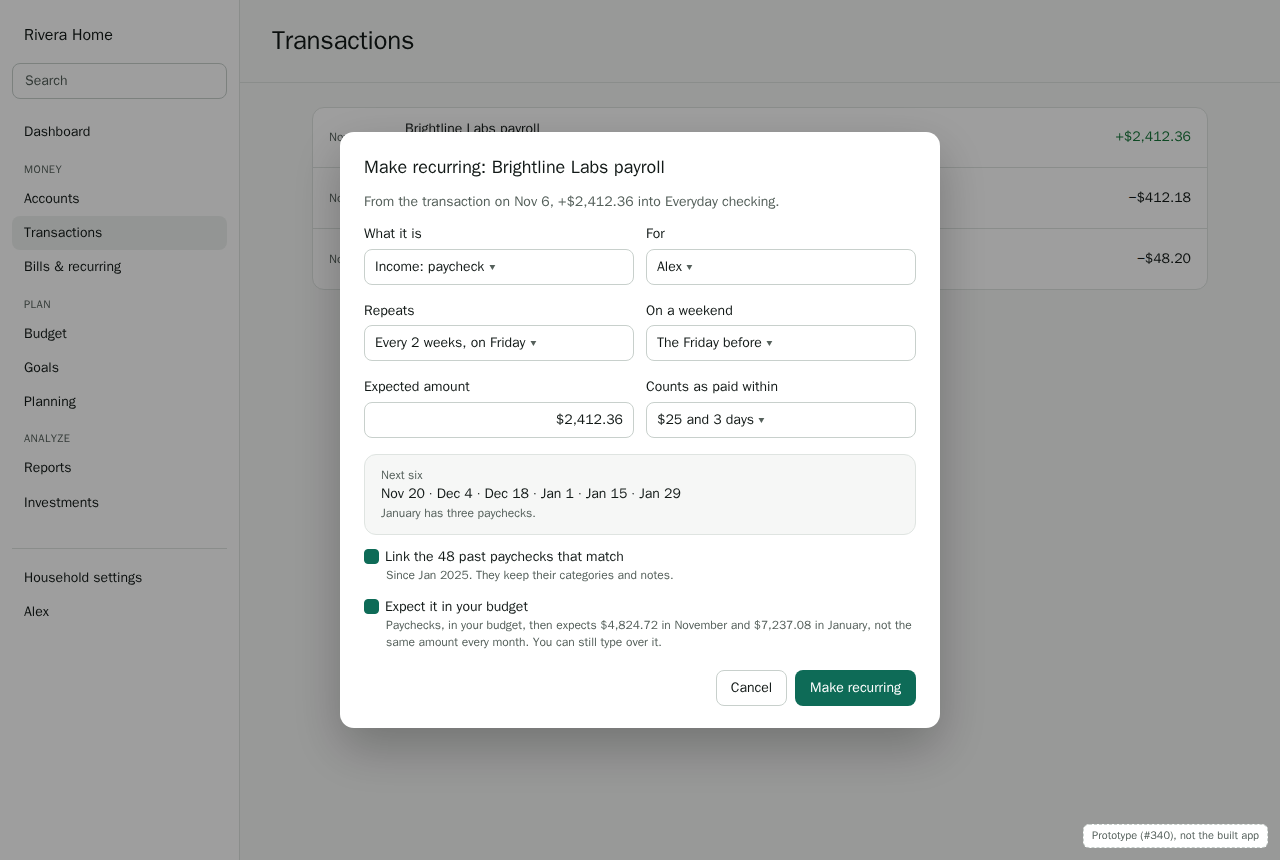
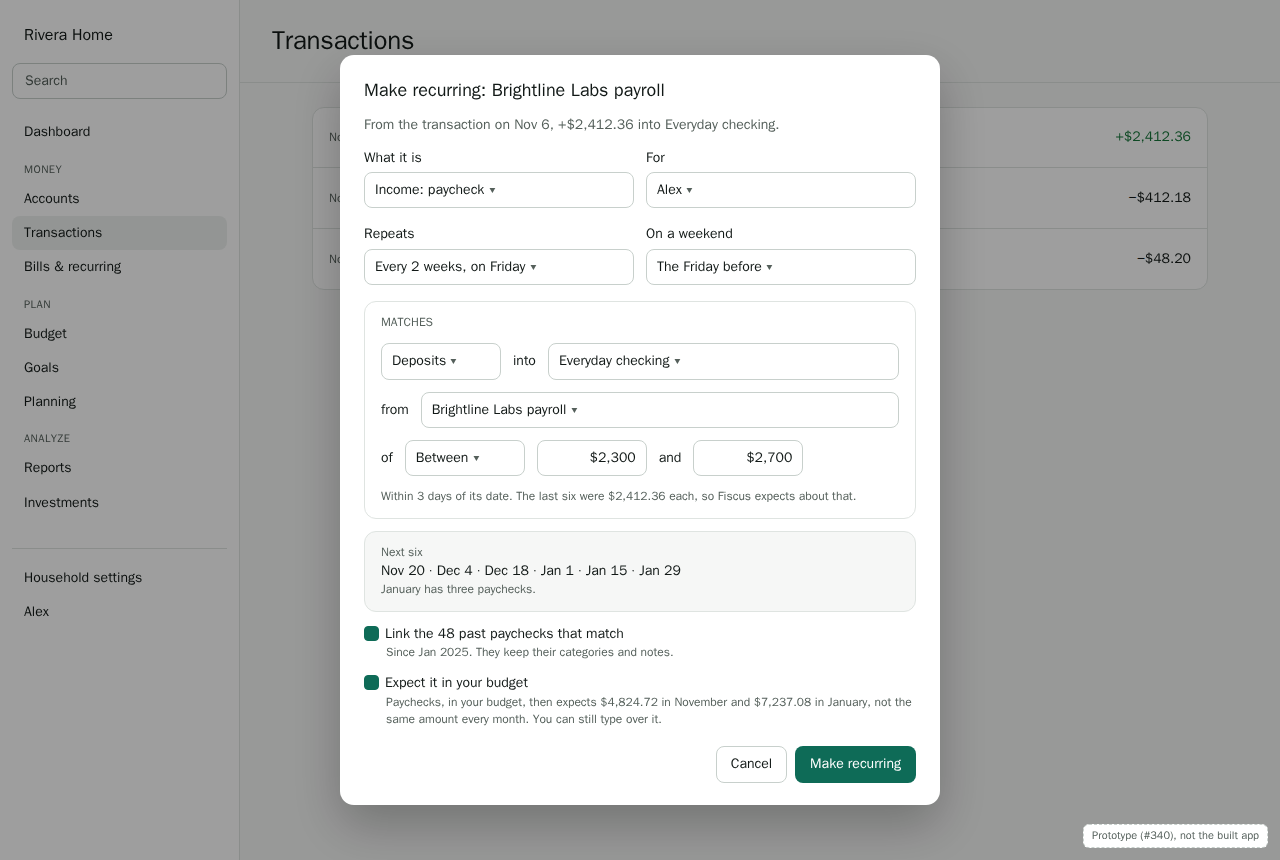
docs(bills): a series matches by conditions; what it expects is an estimate
Instead of "fixed or varies", and amounts per day for twice-a-month
paychecks: a series names what it matches, like a rule (an account, a
merchant or both, money in or out, and any amount, at least, at most,
between, or about), and separately estimates the next one from what
came in. Paychecks that differ on the 1st and the 15th, commissions, and
seasonal bills all fit without special cases.

Claude-Session: https://claude.ai/code/session_01DCnJZZ1VEBPAJXL3RVWrnd

Changed region(s): [[0.25, 0.0605, 0.75, 0.6047], [0.25, 0.6349, 0.75, 0.9674]]

diff --git a/docs/design/walkthroughs/bills/prototypes/05-make-recurring.html b/docs/design/walkthroughs/bills/prototypes/05-make-recurring.html
@@ -70,12 +70,25 @@
           <label class="field"
             ><span>On a weekend</span><span class="select">The Friday before</span></label
           >
-          <label class="field"
-            ><span>Expected amount</span><span class="input amount">$2,412.36</span></label
-          >
-          <label class="field"
-            ><span>Counts as paid within</span><span class="select">$25 and 3 days</span></label
-          >
+        </div>
+        <div class="card stack" style="padding: 12px 16px">
+          <div class="small muted" style="font-weight: 600">MATCHES</div>
+          <div class="row">
+            <span class="select" style="width: 120px">Deposits</span><span>into</span
+            ><span class="select grow">Everyday checking</span>
+          </div>
+          <div class="row">
+            <span>from</span><span class="select grow">Brightline Labs payroll</span>
+          </div>
+          <div class="row">
+            <span>of</span><span class="select" style="width: 120px">Between</span
+            ><span class="input amount" style="width: 110px">$2,300</span><span>and</span
+            ><span class="input amount" style="width: 110px">$2,700</span>
+          </div>
+          <div class="small muted">
+            Within 3 days of its date. The last six were $2,412.36 each, so Fiscus expects about
+            that.
+          </div>
         </div>
         <div class="card" style="padding: 12px 16px; background: var(--bg)">
           <div class="small muted">Next six</div>

diff --git a/docs/design/walkthroughs/bills/prototypes/03-bill-drawer.html b/docs/design/walkthroughs/bills/prototypes/03-bill-drawer.html
@@ -280,7 +280,9 @@
       </div>
       <div class="grid2" style="gap: 12px">
         <label class="field"><span>Who looks after it</span><span class="select">Sam</span></label>
-        <label class="field"><span>Amount</span><span class="select">Varies</span></label>
+        <label class="field"
+          ><span>Amount it matches</span><span class="select">Any amount</span></label
+        >
       </div>
       <div class="small muted" style="margin-top: 6px">
         Sam gets the reminders, as set in Sam’s notifications: 3 days before, and if it’s late. Alex

diff --git a/docs/design/walkthroughs/bills.md b/docs/design/walkthroughs/bills.md
@@ -41,15 +41,23 @@ paycheck, or a transfer you make every month. Each one has:
 
 | | What it is | Example |
 |---|---|---|
-| **Payee** | The merchant it's to or from, and the account it moves through | Lakeside Power, from Everyday checking |
+| **Matches** | The account, the merchant, or both, and an amount: any, at least, at most, or between | Lakeside Power, from Everyday checking, any amount |
 | **Kind** | Bill, subscription, income, or transfer | Bill |
 | **Schedule** | How often, and on which day | Monthly, around the 24th |
-| **Amount** | Fixed, or varies | Varies: $96–$148 |
+| **Expected** | An estimate of the next one, from the payments so far | About $131 |
 | **Category** | The category its payments get | Utilities |
 | **Who looks after it** | For a bill: the member who gets its reminders. For income: who it's for | Sam |
 
 Each time a payment is due is an **occurrence**: expected on a date, then **paid** (a transaction
 matched it), **late**, or **skipped**.
+
+**What it matches and what it expects are separate.** What it matches decides which payments
+count, and is plain enough to read and change: like a rule's conditions. What it expects is only
+an estimate, for totals, the budget and reminders. A paycheck that's smaller on the 15th, because
+an HSA contribution comes out of that one only, a commission that changes every month, a power
+bill that's higher in winter: each is one series with an amount condition wide enough for it
+("between $2,300 and $2,700", "at least $1,000", "any amount"), and an estimate that follows what
+actually came in.
 
 **D1. One kind of thing for bills, subscriptions, income and transfers.** They differ only in
 their wording and defaults: income says "received" instead of "paid", and has a "for" instead of
@@ -60,8 +68,7 @@ is added up separately from bills, and transfers can be hidden from the upcoming
 **D2. Schedules people actually have.**
 - Every week, or every 2 weeks, on a weekday.
 - **Twice a month**, on two days (the 1st and the 15th, or the 15th and the last day, for many
-  paychecks). **Each day has its own amount**: a paycheck on the 1st of $2,600 and one on the
-  15th of $2,450, when a deduction such as an HSA contribution comes out of one of them only.
+  paychecks).
 - Every month, on a day or on the last day; every 2, 3 or 6 months; every year.
 - Custom: every N days, weeks or months.
 
@@ -100,10 +107,11 @@ rather than deciding for you.
   - **Still coming:** the last one is no more than one and a half cycles ago. A subscription that
     stopped two years ago isn't suggested. With years of history, the alternative is pages of
     old, ended payments to dismiss.
-  - **Fixed or varies:** fixed when the amounts stay within 5% of each other, otherwise "varies",
-    shown as a range. For twice a month, each day is judged on its own. A paycheck that's always
-    smaller on the 15th is two fixed amounts, one for each day, not one that varies. A price change that sticks (Northwind Mobile, $80 to $85 since June) is
-    still fixed, at the new amount, and noted.
+  - **The amount it proposes:** when the payments stay within 5% of each other, "about" that
+    amount, matched within 5%. Otherwise "between" the lowest and highest seen, with a margin, or
+    "any amount" when they're all over the place. You can change it before confirming, as with a
+    rule. A price change that sticks (Northwind Mobile, $80 to $85 since June) moves the amount,
+    and is noted.
   - Not suggested: spending that's frequent but not steady (groceries, gas), and transfers
     between your own accounts that are already linked as transfers, unless they're steady (the
     $200 a month to Holiday fund is).
@@ -143,9 +151,10 @@ month, and a 3-paycheck month looks like a windfall, or a 2-paycheck month like 
 - An amount typed in the budget for a month still wins for that month.
 - The checkbox shows for income series when there's a budget that counts the category. It
   starts ticked.
-- Twice-a-month paychecks get two a month, every month: the budget expects the two days' amounts
-  added together ($2,600 + $2,450 = $5,050), and when one changes (a raise, a new HSA
-  contribution), the months after it follow.
+- What it expects for a month is the estimate for each paycheck due in it, added up. For a
+  paycheck that's $2,600 on the 1st and $2,450 on the 15th, the estimate comes from recent
+  paychecks, so the month adds up to about $5,050; a raise or a new HSA contribution shows up in
+  the months after it.
 
 ---
 
@@ -157,8 +166,8 @@ month, and a 3-paycheck month looks like a windfall, or a 2-paycheck month like 
 - **Totals for the month:** bills paid and to pay, income expected and received, card
   statements, and subscriptions a month.
 - **The list:** late first, then this week, then the rest of the month. Each row shows the
-  payee, its schedule and account, who looks after it, and the amount: exact, or "about" for
-  one that varies.
+  payee, its schedule and account, who looks after it, and what it expects: exact for a payment
+  that's always the same, otherwise "about".
 - **Paid this month** sits at the end, folded.
 
 **Calendar** shows the same occurrences by day. **All** lists every series, active and ended,
@@ -170,8 +179,8 @@ for editing.
 statements beside bills.
 
 **Do better.**
-- **D8. An amount that varies gets a real estimate.** "About $131" for Lakeside Power comes from
-  the same month last year and the last 3 months, not the last payment alone. A power bill in
+- **D8. The estimate is a real one.** "About $131" for Lakeside Power comes from the same month
+  last year and the last 3 months, not the last payment alone. A power bill in
   November is more like last November than like October. The drawer says how it was worked out
   (§6).
 - **D9. Card statements come from the bank, not from detection.** For cards linked through
@@ -205,15 +214,18 @@ same list. Calendar and All are a tap away.
 
 ## 5. Paid, late, and matching
 
-**D11. A payment is matched by payee, account, date and amount.** An occurrence is paid when a
-transaction comes in:
-- from the same payee, in the same direction, through the same account;
-- within its window (by default 3 days either side, or a week for a monthly bill that varies);
-- with an amount within its tolerance (by default 5%, or any amount for one that varies). For
-  twice a month, that's the amount for its own day.
+**D11. A payment is matched by conditions you can read, like a rule's.** An occurrence is paid
+when a transaction comes in:
+- through the series' account, from or to its merchant, or both, whichever it names. A
+  paycheck can be "any deposit into Everyday checking from Brightline Labs"; a series can also be
+  "any deposit of at least $1,000 into Everyday checking", for income with no steady name;
+- in the same direction (money in, or money out);
+- within its window: by default 3 days either side of its date, or a week for a monthly bill;
+- with an amount that meets its condition: any, at least, at most, between, or about (within 5%).
 
-Each transaction pays at most one occurrence. A matched transaction gets the series' category if
-it has none, and shows the series in its drawer.
+The conditions use the rule editor's pieces, so they read the same. Each transaction pays at most
+one occurrence. A matched transaction gets the series' category if it has none, and shows the
+series in its drawer.
 
 **D12. Late, and what to do about it.** An occurrence nobody's seen 2 days after its expected
 date is **late** (Cascade Water above, due November 9). A payment that turns up afterwards still
@@ -247,7 +259,7 @@ who can see it still sees it; only that person is reminded.
   reminders to send, but a late paycheck is worth knowing about (§7).
 
 **D14. Changes worth noticing.** Badges on the series, and insights (#129, #123):
-- **Price went up** ("Up $5.00 since June"), when a fixed amount moves and stays.
+- **Price went up** ("Up $5.00 since June"), when an "about" amount moves and stays.
 - **New subscription**, when a new one is found.
 - **Looks ended**, after two late occurrences.
 
@@ -334,16 +346,16 @@ card, which Alex's doesn't. A quiet week still sends a short recap, so it's clea
 | # | Decision | Shapes |
 |---|---|---|
 | D1 | One model for bills, subscriptions, income and transfers | #118 |
-| D2 | Schedules include twice a month, with an amount per day, and a weekend rule; no holiday calendar | #118 |
+| D2 | Schedules include twice a month and a weekend rule; no holiday calendar | #118 |
 | D3 | Fiscus detects from all its own history, for every account, not Plaid's recurring endpoint | #119 |
-| D4 | Found: 3+ at a steady pace, still coming; fixed within 5%, otherwise varies | #119 |
+| D4 | Found: 3+ at a steady pace, still coming; it proposes an amount condition to edit | #119 |
 | D5 | Suggestions are reviewed on Bills & recurring; Not recurring is remembered | #119 |
 | D6 | Any transaction can start a series, and its past payments are linked | #118, #119 |
 | D7 | A paycheck can set the budget's expected income, month by month | #118, budgets |
-| D8 | Variable amounts are estimated from last year's month and the last 3 | #120 |
+| D8 | What's expected is estimated from last year's month and the last 3, apart from what matches | #120 |
 | D9 | Card statements come from the bank, and aren't added to bills | #122, #86 |
 | D10 | Series follow account visibility; Ours and Mine filter by who it's for | #118, ADR 0006 |
-| D11 | Matching by payee, account, a date window and an amount tolerance | #120 |
+| D11 | Matching by conditions like a rule's: account and/or merchant, direction, a date window, an amount condition | #120, rules |
 | D12 | Late 2 days after its date; mark paid, skip, or ended; two lates ask if it's ended | #120 |
 | D13 | One person looks after each bill and gets its reminders | #121, ADR 0006 §6 |
 | D14 | Price rises, new subscriptions and ended series are noticed | #123, #129 |
@@ -357,7 +369,7 @@ card, which Alex's doesn't. A quiet week still sends a short recap, so it's clea
 
 ## Open questions
 
-- **Detection thresholds (D4).** 3 payments, 5% for "fixed", one and a half cycles for "still
+- **Detection thresholds (D4).** 3 payments, 5% for "about", one and a half cycles for "still
   coming" are starting points. They should be checked against real histories, including one
   with nine years of Monarch imports, before #119 is done.
 - **Reviewer assignment and review reminders (#45).** "Transactions to review" here is your own
